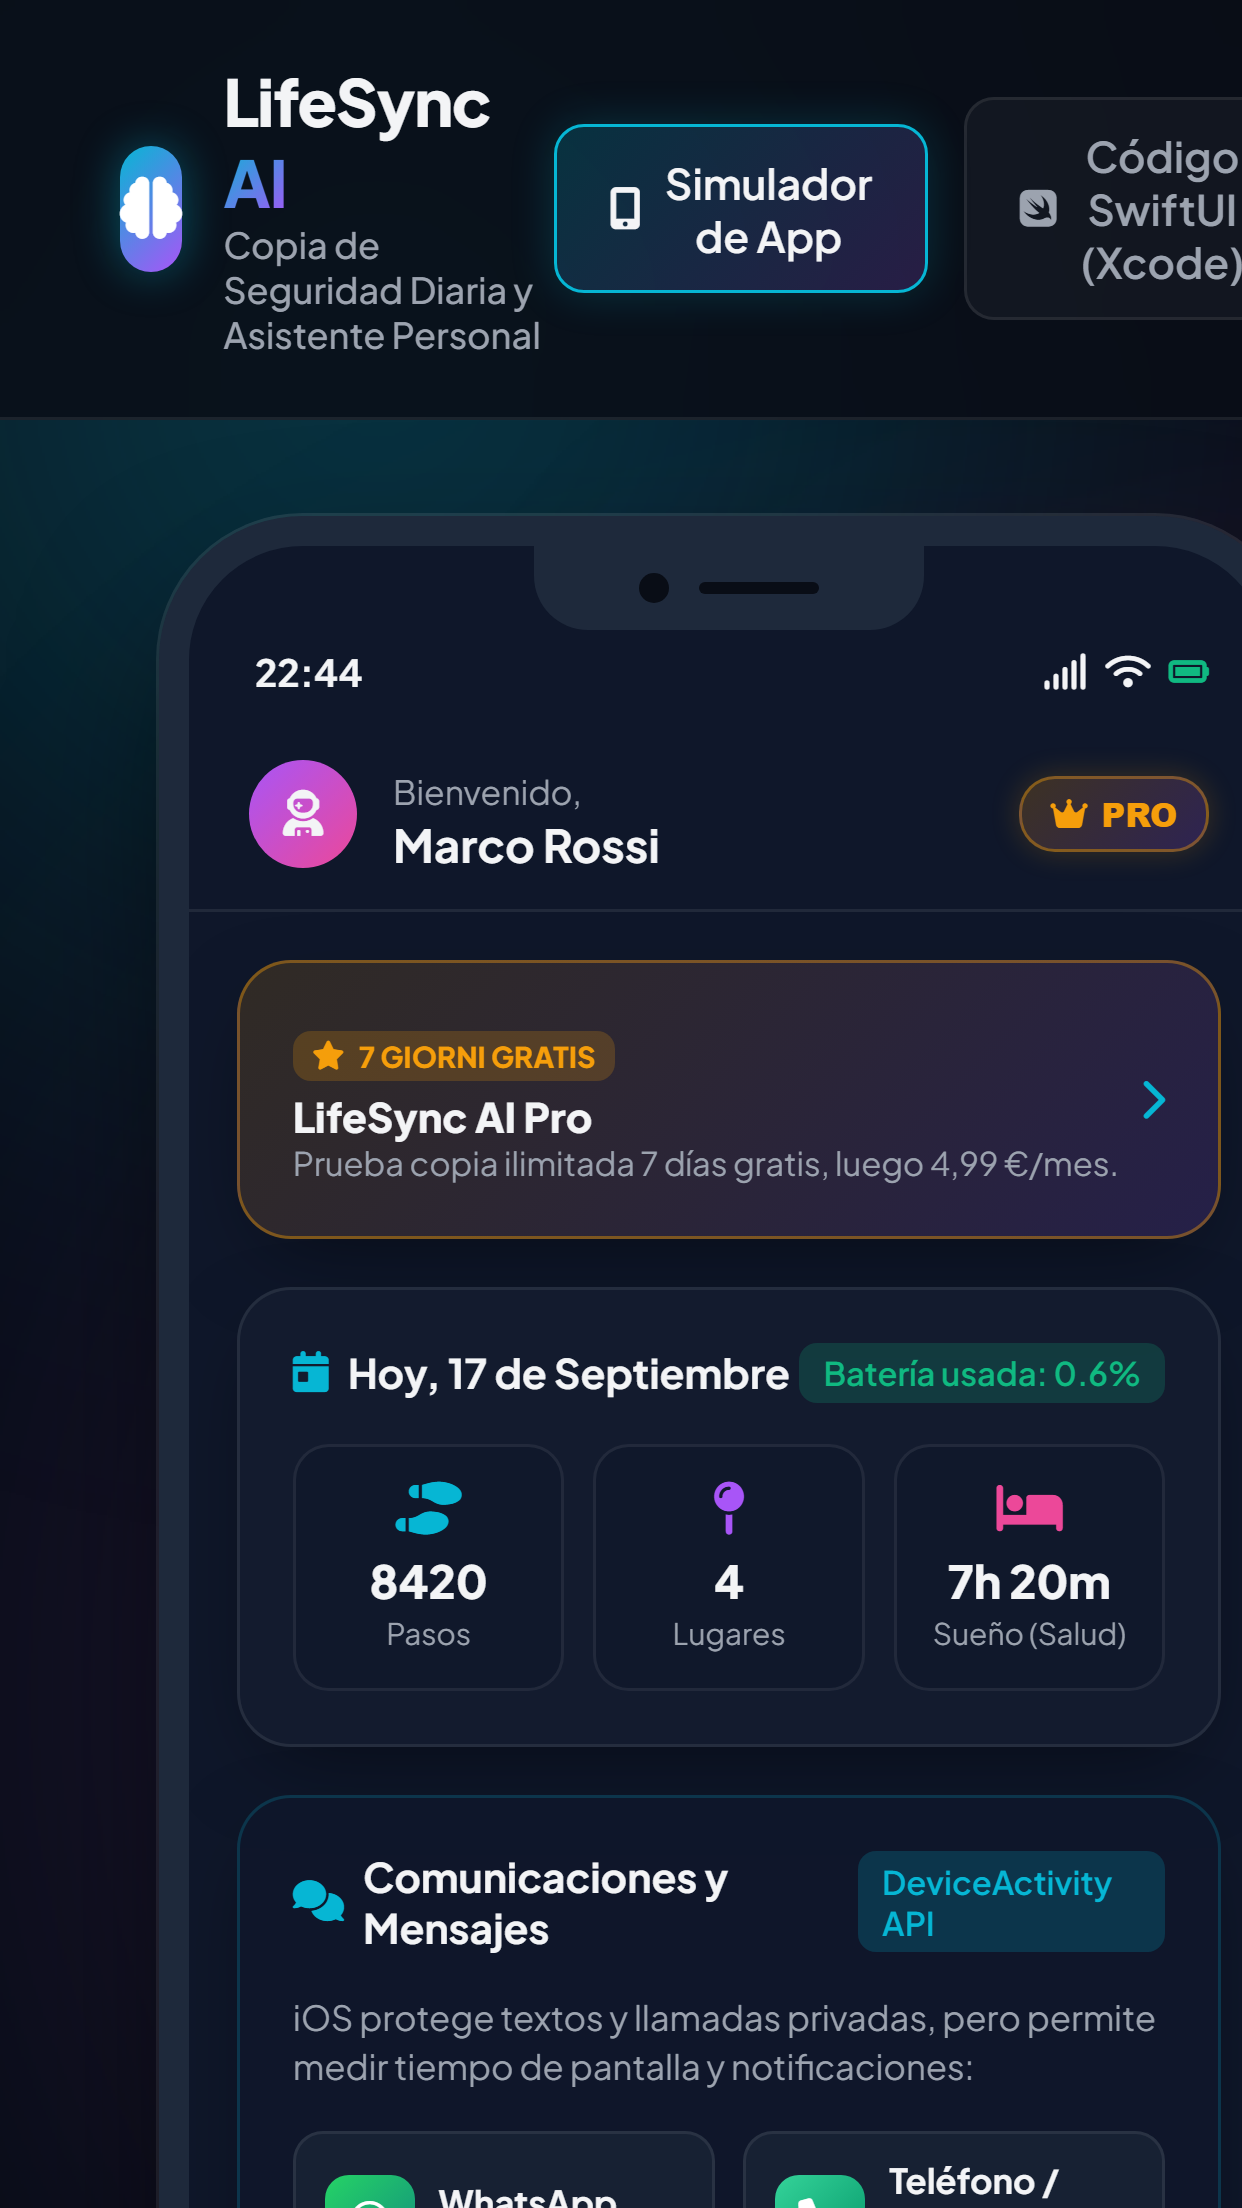
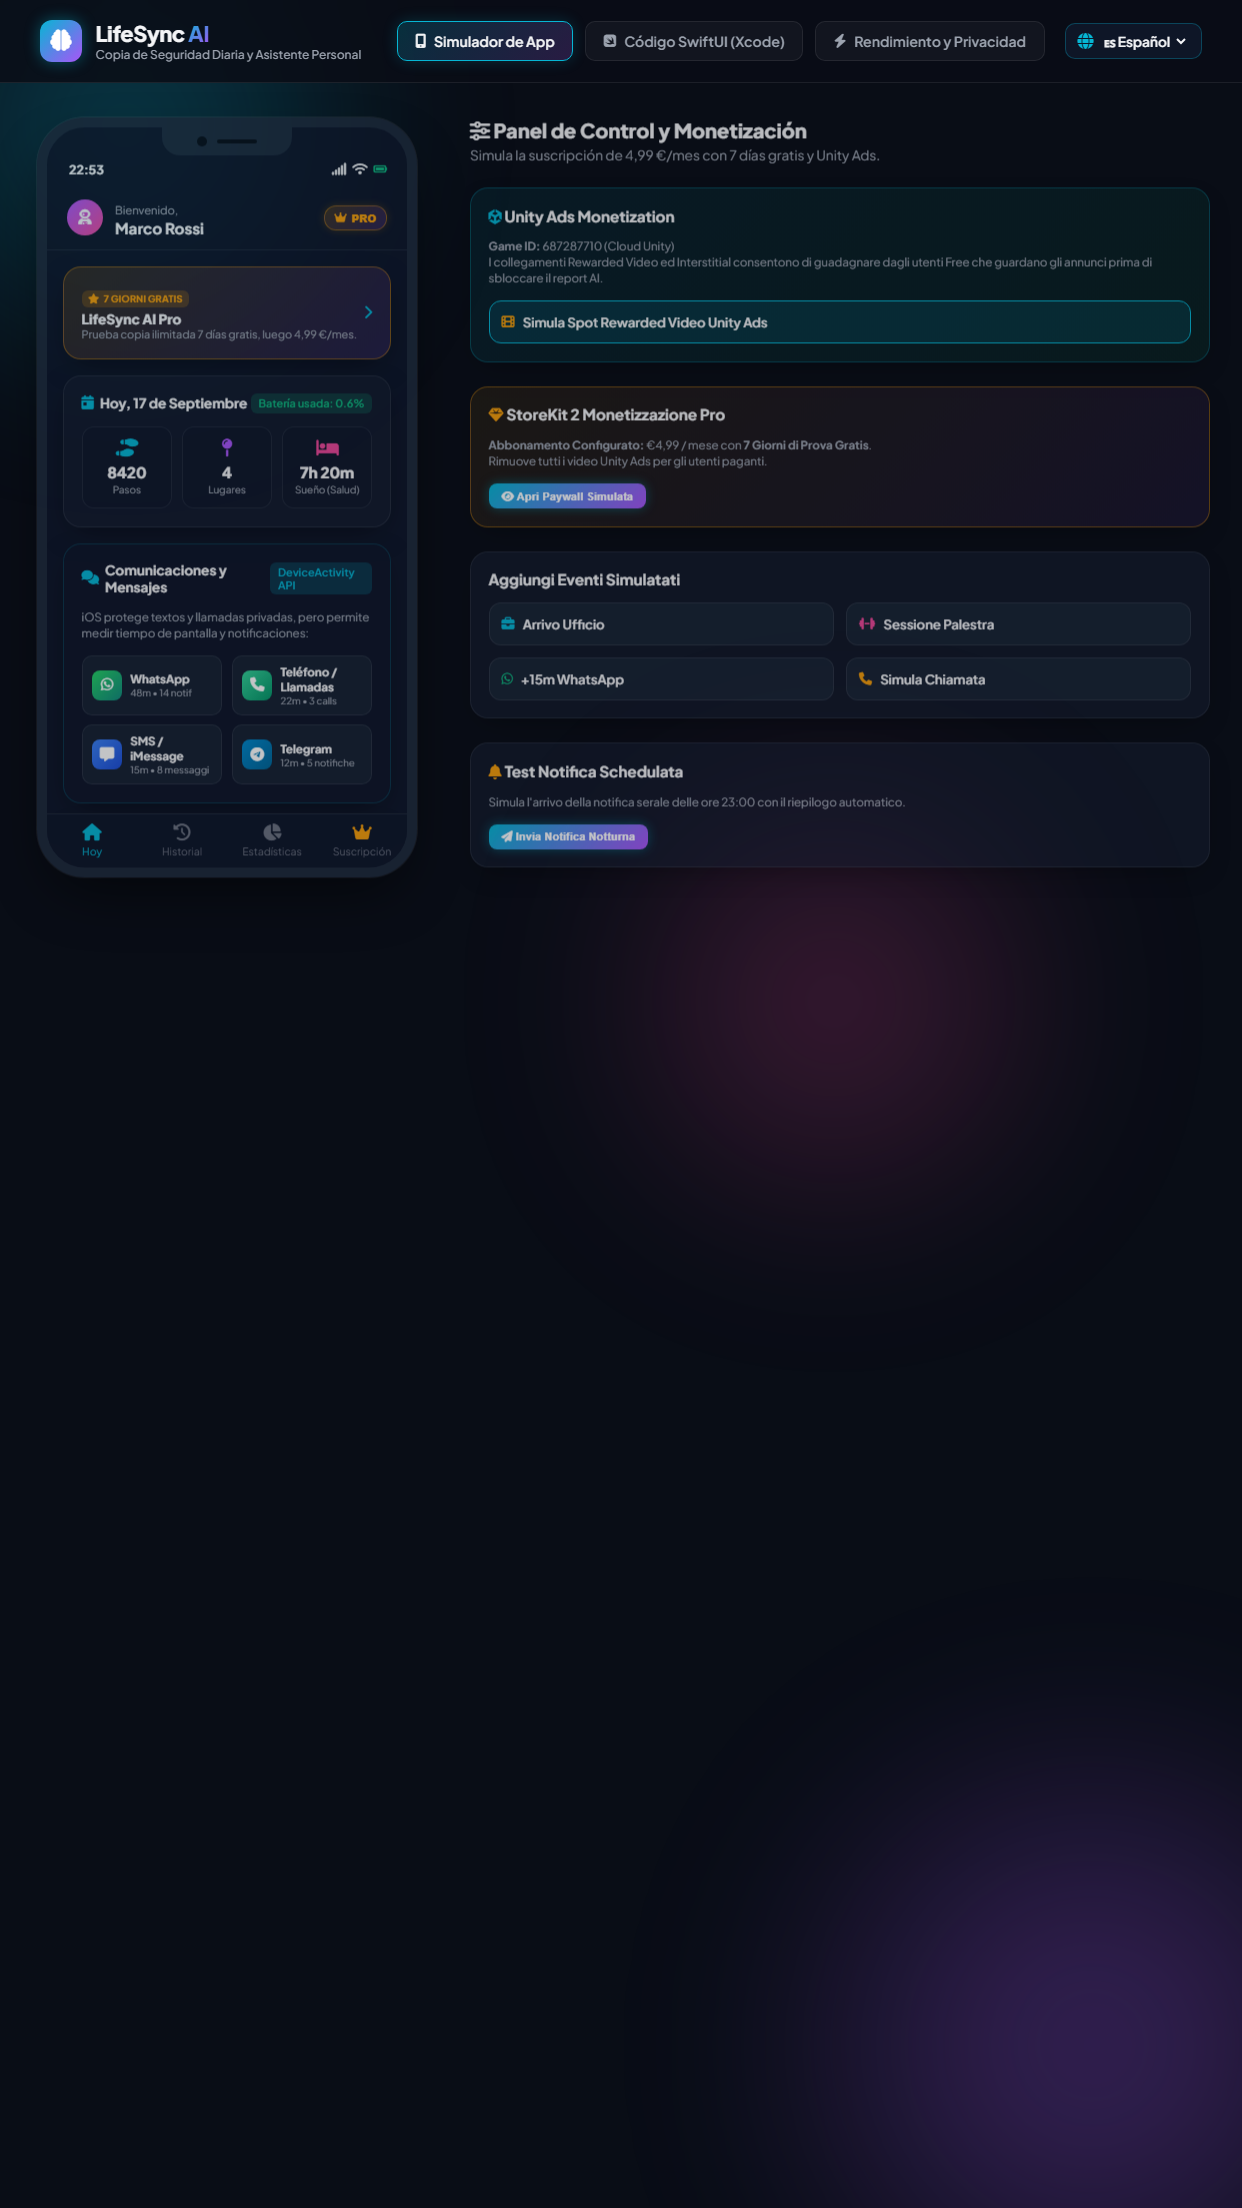
Align localized App Store screenshots

diff --git a/app.js b/app.js
@@ -34,7 +34,7 @@ const i18n = {
         batteryUsage: "Batteria usata: 0.6%",
         lblSteps: "Passi",
         lblPlaces: "Luoghi",
-        lblSleep: "Sonno (Health)",
+        lblSleep: "Riposo",
         commsTitle: "Comunicazioni & Messaggi",
         commsBadge: "DeviceActivity API",
         commsDesc: "iOS protegge i testi e le chiamate private, ma consente di monitorare il tempo di utilizzo e le notifiche delle app:",
@@ -48,11 +48,11 @@ const i18n = {
         aiCardTitle: "Riepilogo Assistente AI",
         btnGenerateAi: "Genera Ora",
         aiPlaceholder: "Fai clic su 'Genera Ora' o guarda uno spot Unity Ads per ricevere la sintesi AI della giornata.",
-        icloudLock: "Backup Cifrato iCloud",
+        icloudLock: "Archivio Locale Privato",
         backupTitle: "Stato Backup Giornaliero",
-        backupDesc: "Tutti i log di movimento, tempo schermo e note vocali sono cifrati in locale.",
+        backupDesc: "I dati restano sul dispositivo e vengono usati per il riepilogo giornaliero.",
         btnDlJson: "Scarica JSON",
-        btnSyncIcloud: "Sync iCloud",
+        btnSyncIcloud: "Aggiorna archivio",
         appToday: "Oggi",
         appHistory: "Storico",
         appStats: "Statistiche",
@@ -96,7 +96,7 @@ const i18n = {
         batteryUsage: "Battery used: 0.6%",
         lblSteps: "Steps",
         lblPlaces: "Places",
-        lblSleep: "Sleep (Health)",
+        lblSleep: "Rest",
         commsTitle: "Communications & Messages",
         commsBadge: "DeviceActivity API",
         commsDesc: "iOS protects private texts & calls, but allows tracking app screen time & notification counts:",
@@ -110,11 +110,11 @@ const i18n = {
         aiCardTitle: "AI Assistant Summary",
         btnGenerateAi: "Generate Now",
         aiPlaceholder: "Click 'Generate Now' or watch a Unity Ads video to receive your daily automated narrative backup.",
-        icloudLock: "iCloud Encrypted Backup",
+        icloudLock: "Private Local Archive",
         backupTitle: "Daily Backup Status",
-        backupDesc: "All movement logs, screen time, and audio notes are encrypted locally.",
+        backupDesc: "Data stays on this device and powers your daily summary.",
         btnDlJson: "Download JSON",
-        btnSyncIcloud: "Sync iCloud",
+        btnSyncIcloud: "Refresh archive",
         appToday: "Today",
         appHistory: "History",
         appStats: "Stats",
@@ -132,7 +132,7 @@ const i18n = {
         notifDesc: "Simulate the 11:00 PM nightly notification with the automated summary.",
         btnSendNotif: "Send Nightly Notification",
         paywallSubText: "Try unlimited backup for 7 days, then €4.99/month.",
-        aiSummaryText: "🌟 **AI Assistant Daily Summary - Sept 17**\n\nGreat daily balance today! You walked **8,420 steps**, visited **4 places**, spent **48 mins on WhatsApp**, and logged **3 calls (22 mins)**.\n\nYou achieved 7h 20m of deep sleep. All logs are securely backed up to your encrypted iCloud archive!",
+        aiSummaryText: "AI Assistant Daily Summary - Sept 17\n\nGreat daily balance today! You walked **8,420 steps**, visited **4 places**, and recorded a balanced routine.\n\nYou achieved 7h 20m of rest. Your summary is generated from data stored on this device.",
         timelineItems: [
             { time: "08:15", title: "Morning Run & Wake Up", desc: "Central Park • 4.2 km completed", icon: "fa-person-running", bg: "bg-cyan-light" },
             { time: "09:30", title: "Arrive Home / Home Office", desc: "Home Wi-Fi Network Connected", icon: "fa-house-laptop", bg: "bg-purple-light" },
@@ -172,11 +172,11 @@ const i18n = {
         aiCardTitle: "Resumen de Asistente IA",
         btnGenerateAi: "Generar Ahora",
         aiPlaceholder: "Haz clic en 'Generar Ahora' o mira un anuncio de Unity Ads para recibir tu resumen.",
-        icloudLock: "Copia Cifrada en iCloud",
+        icloudLock: "Archivo Local Privado",
         backupTitle: "Estado de la Copia Diaria",
-        backupDesc: "Todos los registros de movimiento y voz están cifrados localmente.",
+        backupDesc: "Los datos permanecen en este dispositivo y alimentan tu resumen diario.",
         btnDlJson: "Descargar JSON",
-        btnSyncIcloud: "Sync iCloud",
+        btnSyncIcloud: "Actualizar archivo",
         appToday: "Hoy",
         appHistory: "Historial",
         appStats: "Estadísticas",
@@ -234,11 +234,11 @@ const i18n = {
         aiCardTitle: "Résumé de l'Assistant IA",
         btnGenerateAi: "Générer Maintenant",
         aiPlaceholder: "Cliquez sur 'Générer Maintenant' ou regardez une publicité Unity Ads pour débloquer votre résumé.",
-        icloudLock: "Sauvegarde Chiffrée iCloud",
+        icloudLock: "Archive Locale Privee",
         backupTitle: "Statut de la Sauvegarde",
-        backupDesc: "Tous vos journaux de mouvement et vocaux sont chiffrés localement.",
+        backupDesc: "Les donnees restent sur cet appareil et alimentent votre resume quotidien.",
         btnDlJson: "Télécharger JSON",
-        btnSyncIcloud: "Sync iCloud",
+        btnSyncIcloud: "Actualiser l'archive",
         appToday: "Aujourd'hui",
         appHistory: "Historique",
         appStats: "Statistiques",
@@ -721,7 +721,7 @@ function triggerBackupDownload() {
 }
 
 function simulateCloudSync() {
-    alert("☁ iCloud Sync Successful! Backup encrypted with AES-256.");
+    alert("Archivio locale aggiornato.");
 }
 
 function simulatePushNotification() {

diff --git a/index.html b/index.html
@@ -135,7 +135,7 @@
                                 <div class="metric-box">
                                     <i class="fa-solid fa-bed metric-icon text-pink"></i>
                                     <span class="metric-value" id="val-sleep">7h 20m</span>
-                                    <span class="metric-label" id="lbl-sleep">Sonno (Health)</span>
+                                    <span class="metric-label" id="lbl-sleep">Riposo</span>
                                 </div>
                             </div>
                         </div>
@@ -231,7 +231,7 @@
                             </div>
 
                             <div class="ai-card-footer">
-                                <span class="crypto-tag"><i class="fa-solid fa-lock"></i> <span id="txt-icloud-lock">Backup Cifrato iCloud</span></span>
+                                <span class="crypto-tag"><i class="fa-solid fa-lock"></i> <span id="txt-icloud-lock">Archivio Locale Privato</span></span>
                                 <span class="time-tag" id="last-generated-time">Non ancora generato</span>
                             </div>
                         </div>
@@ -240,7 +240,7 @@
                         <div class="glass-card backup-card">
                             <div class="card-header">
                                 <span class="card-title"><i class="fa-solid fa-cloud-arrow-up text-cyan"></i> <span id="txt-backup-title">Stato Backup Giornaliero</span></span>
-                                <span class="badge badge-info">AES-256</span>
+                                <span class="badge badge-info">Locale</span>
                             </div>
                             <p class="card-desc" id="txt-backup-desc">Tutti i log di movimento, tempo schermo e note vocali sono cifrati in locale.</p>
                             <div class="backup-actions">
@@ -248,7 +248,7 @@
                                     <i class="fa-solid fa-download"></i> <span id="btn-dl-json">Scarica JSON</span>
                                 </button>
                                 <button class="btn-secondary" onclick="simulateCloudSync()">
-                                    <i class="fa-solid fa-arrows-rotate"></i> <span id="btn-sync-icloud">Sync iCloud</span>
+                                    <i class="fa-solid fa-arrows-rotate"></i> <span id="btn-sync-icloud">Aggiorna archivio</span>
                                 </button>
                             </div>
                         </div>
@@ -490,8 +490,8 @@
                 <div class="paywall-feature-item">
                     <i class="fa-solid fa-lock text-green"></i>
                     <div>
-                        <strong>Backup Cifrato illimitato iCloud</strong>
-                        <span>Protezione AES-256 nativa iOS dei tuoi dati personali</span>
+                        <strong>Archivio personale locale</strong>
+                        <span>I tuoi dati restano sul dispositivo e alimentano il riepilogo quotidiano</span>
                     </div>
                 </div>
             </div>
